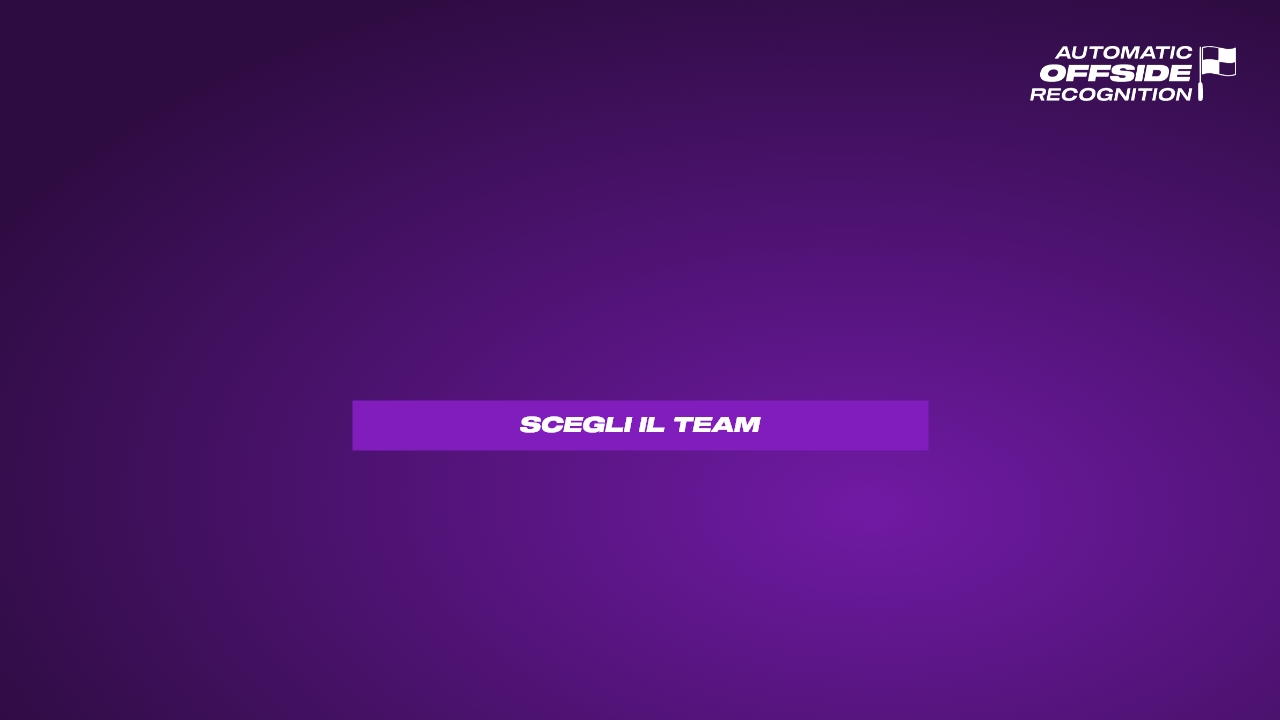
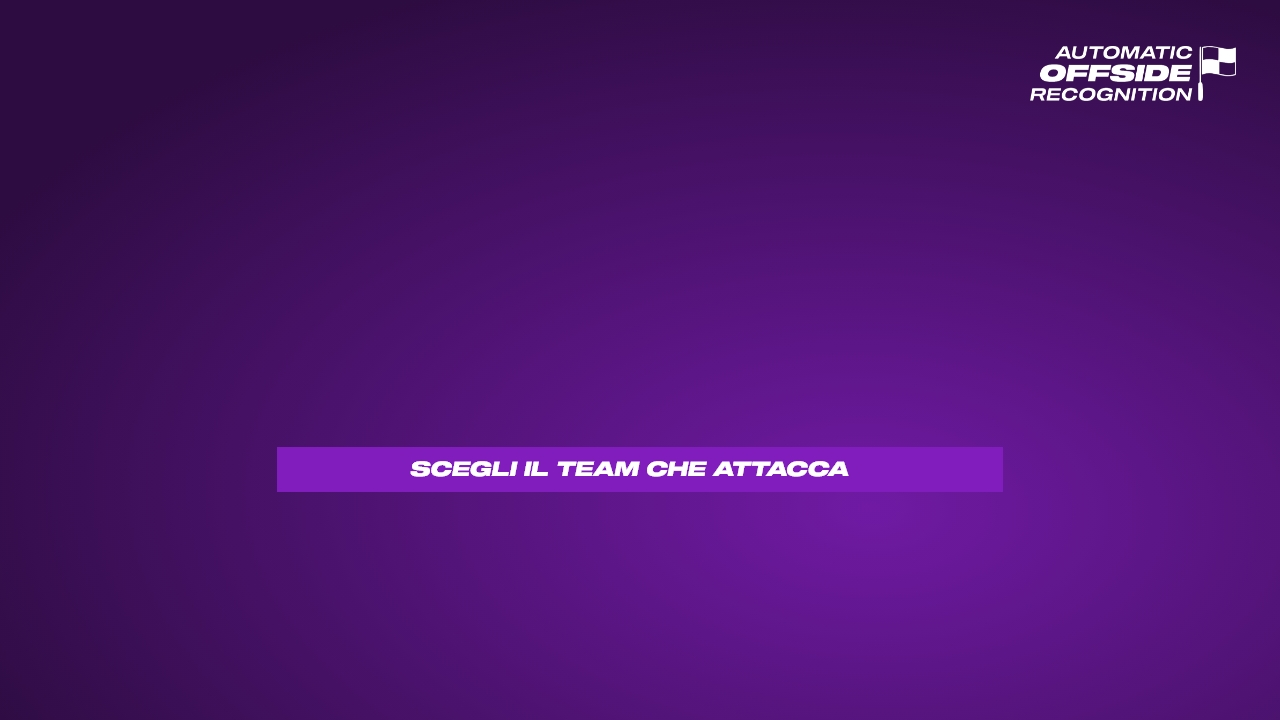
changes in GUI

Changed region(s): [[0.2188, 0.55, 0.7812, 0.7028]]

diff --git a/mainGUI.py b/mainGUI.py
@@ -1,15 +1,14 @@
 import tkinter as tk
-from tkinter import PhotoImage, filedialog
+from tkinter import filedialog
 from PIL import ImageTk, Image
 from tkinter import Canvas, Label
 import os
 from PIL import Image, ImageTk, ImageEnhance
 
-from offside import drawOffside
-
-def reduce_brightness(image):
+def reduce_brightness(image, factor=0.7):
     enhancer = ImageEnhance.Brightness(image)
-    return enhancer.enhance(0.7)
+    return enhancer.enhance(factor)
+
 
 def seleziona_immagine():
     file_path = filedialog.askopenfilename()
@@ -23,67 +22,71 @@ def visualizza_immagine(file_path, team):
     canvas.background = background
     canvas.create_image(0, 0, anchor=tk.NW, image=background)  
 
-    
-    playerOffside = drawOffside(file_path)
-    print(playerOffside)
-    
-    img = Image.open('result/result3D.jpg')
-
-    #insierire l'immagine 3D processata con giocatori individuati e fuorigioco
+    img = Image.open(file_path)
     img = img.resize((753, 424))
     img = ImageTk.PhotoImage(img)
     canvas.img = img
     canvas.create_image(0, 159, anchor=tk.NW, image=img)
     
-    img2 = Image.open('result/result2D.png')
-    #inserire il campo 2D una volta aggiunti giocatori e fuorigioco
+    img2 = Image.open("Automatic Offside Recognition GUI 2.0/src/offside/pitch2D.png")
     img2 = img2.resize((512, 300))
     img2 = ImageTk.PhotoImage(img2)
     canvas.img2 = img2
     canvas.create_image(769, 159, anchor=tk.NW, image=img2)
 
-    restart_button = Image.open("Automatic Offside Recognition GUI 2.0/src/elements/restart_button.png")
-    restart_button = restart_button.resize((200, 50))
-    restart_button = ImageTk.PhotoImage(restart_button)
-    canvas.restart_button = restart_button
+    restart_button_img = Image.open("Automatic Offside Recognition GUI 2.0/src/elements/restart_button.png")
+    restart_button_img_resized = restart_button_img.resize((200, 50))
+    restart_button_photo = ImageTk.PhotoImage(restart_button_img_resized)
+    canvas.restart_button = restart_button_photo
+    canvas.restart_button_img = restart_button_img_resized
     
-    restart_button = canvas.create_image(150, 75, image=restart_button)
+    restart_button = canvas.create_image(150, 75, image=restart_button_photo)
 
-    team_label = Label(root, text=f"Team: {team}", font=('Helvetica', 12), bg='white')
-    canvas.create_window(640, 50, window=team_label)    
+    team_label = Label(root, text=f"Team {team} in attacco", font=('Helvetica', 12, 'bold'), fg='violet')
+    canvas.create_window(640, 50, window=team_label)
+
 
     canvas.tag_bind(restart_button, '<Button-1>', lambda event: start_view())
     
-    # Aggiunta della label per indicare il valore di team
-    
+    def on_enter_restart(event):
+        brightened_image = reduce_brightness(canvas.restart_button_img)
+        brightened_photo = ImageTk.PhotoImage(brightened_image)
+        canvas.itemconfig(restart_button, image=brightened_photo)
+        canvas.current_button_image = brightened_photo
+
+    def on_leave_restart(event):
+        canvas.itemconfig(restart_button, image=canvas.restart_button)
+
+    canvas.tag_bind(restart_button, '<Enter>', on_enter_restart)
+    canvas.tag_bind(restart_button, '<Leave>', on_leave_restart)
+
 def start_view():
-    # Carica e ridimensiona l'immagine di sfondo
+    for widget in root.winfo_children():
+        if isinstance(widget, tk.Label) and widget.cget("text").startswith("Team "):
+            widget.destroy()
     background = Image.open('Automatic Offside Recognition GUI 2.0/src/images/start.jpg')
     background = background.resize((1280, 720))
     background = ImageTk.PhotoImage(background)
     canvas.background = background
     canvas.create_image(0, 0, anchor=tk.NW, image=background)
 
-    # Carica e ridimensiona l'immagine del pulsante start
     start_button_image = Image.open('Automatic Offside Recognition GUI 2.0/src/elements/start_button.png')
-    start_button_image = start_button_image.resize((200, 50))
-    start_button_photo = ImageTk.PhotoImage(start_button_image)
+    start_button_image_resized = start_button_image.resize((200, 50))
+    start_button_photo = ImageTk.PhotoImage(start_button_image_resized)
     canvas.start_button = start_button_photo
-
-    # Crea e posiziona 
+    canvas.start_button_image = start_button_image_resized
+    
     start_button = canvas.create_image(640, 360, image=start_button_photo)
 
     def on_enter(event):
-        brightened_image = reduce_brightness(start_button_image)
+        brightened_image = reduce_brightness(canvas.start_button_image)
         brightened_photo = ImageTk.PhotoImage(brightened_image)
         canvas.itemconfig(start_button, image=brightened_photo)
         canvas.current_button_image = brightened_photo
 
-    # Funzione per gestire l'uscita del mouse
     def on_leave(event):
         canvas.itemconfig(start_button, image=canvas.start_button)
 
-    # Associa gli eventi al pulsante start
     canvas.tag_bind(start_button, '<Button-1>', lambda event: avvia_processo())
     canvas.tag_bind(start_button, '<Enter>', on_enter)
     canvas.tag_bind(start_button, '<Leave>', on_leave)
@@ -98,42 +101,73 @@ def impostazioni_preprocessamento(file_path):
     canvas.background = background
     canvas.create_image(0, 0, anchor=tk.NW, image=background)  
 
-    imgX = 578
+    imgX = 727
     img = Image.open(file_path)
-    img = img.resize((imgX, 350))
+    img = img.resize((imgX, int((imgX/16) * 9)))
     img = ImageTk.PhotoImage(img)
     canvas.img = img
-    canvas.create_image(640-(imgX//2), 35, anchor=tk.NW, image=img)
+    canvas.create_image(640-(imgX//2), 40, anchor=tk.NW, image=img)
     
     teamA_button_img = Image.open("Automatic Offside Recognition GUI 2.0/src/elements/teamA_button.png")
-    teamA_button_img = teamA_button_img.resize((160, 40))
-    teamA_button_img = ImageTk.PhotoImage(teamA_button_img)
-    canvas.teamA_button_img = teamA_button_img
+    teamA_button_img_resized = teamA_button_img.resize((160, 40))
+    teamA_button_img_dark = reduce_brightness(teamA_button_img_resized, 0.5)
+    teamA_button_photo = ImageTk.PhotoImage(teamA_button_img_dark)
+    canvas.teamA_button_photo = teamA_button_photo
+    canvas.teamA_button_img_resized = teamA_button_img_resized
     
     teamB_button_img = Image.open("Automatic Offside Recognition GUI 2.0/src/elements/teamB_button.png")
-    teamB_button_img = teamB_button_img.resize((160, 40))
-    teamB_button_img = ImageTk.PhotoImage(teamB_button_img)
-    canvas.teamB_button_img = teamB_button_img
+    teamB_button_img_resized = teamB_button_img.resize((160, 40))
+    teamB_button_img_dark = reduce_brightness(teamB_button_img_resized, 0.5)
+    teamB_button_photo = ImageTk.PhotoImage(teamB_button_img_dark)
+    canvas.teamB_button_photo = teamB_button_photo
+    canvas.teamB_button_img_resized = teamB_button_img_resized
     
     process_button_img = Image.open("Automatic Offside Recognition GUI 2.0/src/elements/process_button.png")
-    process_button_img = process_button_img.resize((200, 50))
-    process_button_img = ImageTk.PhotoImage(process_button_img)
-    canvas.process_button_img = process_button_img
+    process_button_img_resized = process_button_img.resize((200, 50))
+    process_button_photo = ImageTk.PhotoImage(process_button_img_resized)
+    canvas.process_button_photo = process_button_photo
+    canvas.process_button_img = process_button_img_resized
     
     button_space = 90
-    button_height = 500
+    button_height = 550
     
-    teamA_button = canvas.create_image(640-button_space, button_height, image=teamA_button_img)
-    teamB_button = canvas.create_image(640+button_space, button_height, image=teamB_button_img)
-    process_button = canvas.create_image(640, 570, image=process_button_img)
+    teamA_button = canvas.create_image(640-button_space, button_height, image=teamA_button_photo)
+    teamB_button = canvas.create_image(640+button_space, button_height, image=teamB_button_photo)
+    process_button = canvas.create_image(640, 630, image=process_button_photo)
 
     def scegli_team(this_team):
         global team
         team = this_team
+        if team == "A":
+            brightened_teamA = ImageTk.PhotoImage(canvas.teamA_button_img_resized)
+            darkened_teamB = ImageTk.PhotoImage(reduce_brightness(canvas.teamB_button_img_resized, 0.5))
+            canvas.itemconfig(teamA_button, image=brightened_teamA)
+            canvas.itemconfig(teamB_button, image=darkened_teamB)
+            canvas.teamA_button_photo = brightened_teamA
+            canvas.teamB_button_photo = darkened_teamB
+        elif team == "B":
+            brightened_teamB = ImageTk.PhotoImage(canvas.teamB_button_img_resized)
+            darkened_teamA = ImageTk.PhotoImage(reduce_brightness(canvas.teamA_button_img_resized, 0.5))
+            canvas.itemconfig(teamB_button, image=brightened_teamB)
+            canvas.itemconfig(teamA_button, image=darkened_teamA)
+            canvas.teamB_button_photo = brightened_teamB
+            canvas.teamA_button_photo = darkened_teamA
+
+    def on_enter_process(event):
+        brightened_image = reduce_brightness(canvas.process_button_img, 1.2)
+        brightened_photo = ImageTk.PhotoImage(brightened_image)
+        canvas.itemconfig(process_button, image=brightened_photo)
+        canvas.current_button_image = brightened_photo
+
+    def on_leave_process(event):
+        canvas.itemconfig(process_button, image=canvas.process_button_photo)
 
     canvas.tag_bind(teamA_button, '<Button-1>', lambda event: scegli_team("A"))
     canvas.tag_bind(teamB_button, '<Button-1>', lambda event: scegli_team("B"))
     canvas.tag_bind(process_button, '<Button-1>', lambda event: visualizza_immagine(file_path, team))
+    canvas.tag_bind(process_button, '<Enter>', on_enter_process)
+    canvas.tag_bind(process_button, '<Leave>', on_leave_process)
+
 
 def avvia_processo():
     seleziona_immagine()
@@ -141,15 +175,17 @@ def avvia_processo():
 root = tk.Tk()
 root.title("Automatic Offside Recognition")
 root.geometry("1280x720")
+root.resizable(False, False)
 
 icon_path = 'Automatic Offside Recognition GUI 2.0/src/icons/logo.ico'
-#os.path.join("src", "icons", "logo.ico")
 im = Image.open(icon_path)
 photo = ImageTk.PhotoImage(im)
 root.wm_iconphoto(True, photo)
+
+#root.iconbitmap(icon_path)
 
 canvas = tk.Canvas(root, width=1280, height=720, highlightthickness=0)
 canvas.pack()
 start_view()
 
-root.mainloop() 
+root.mainloop()
